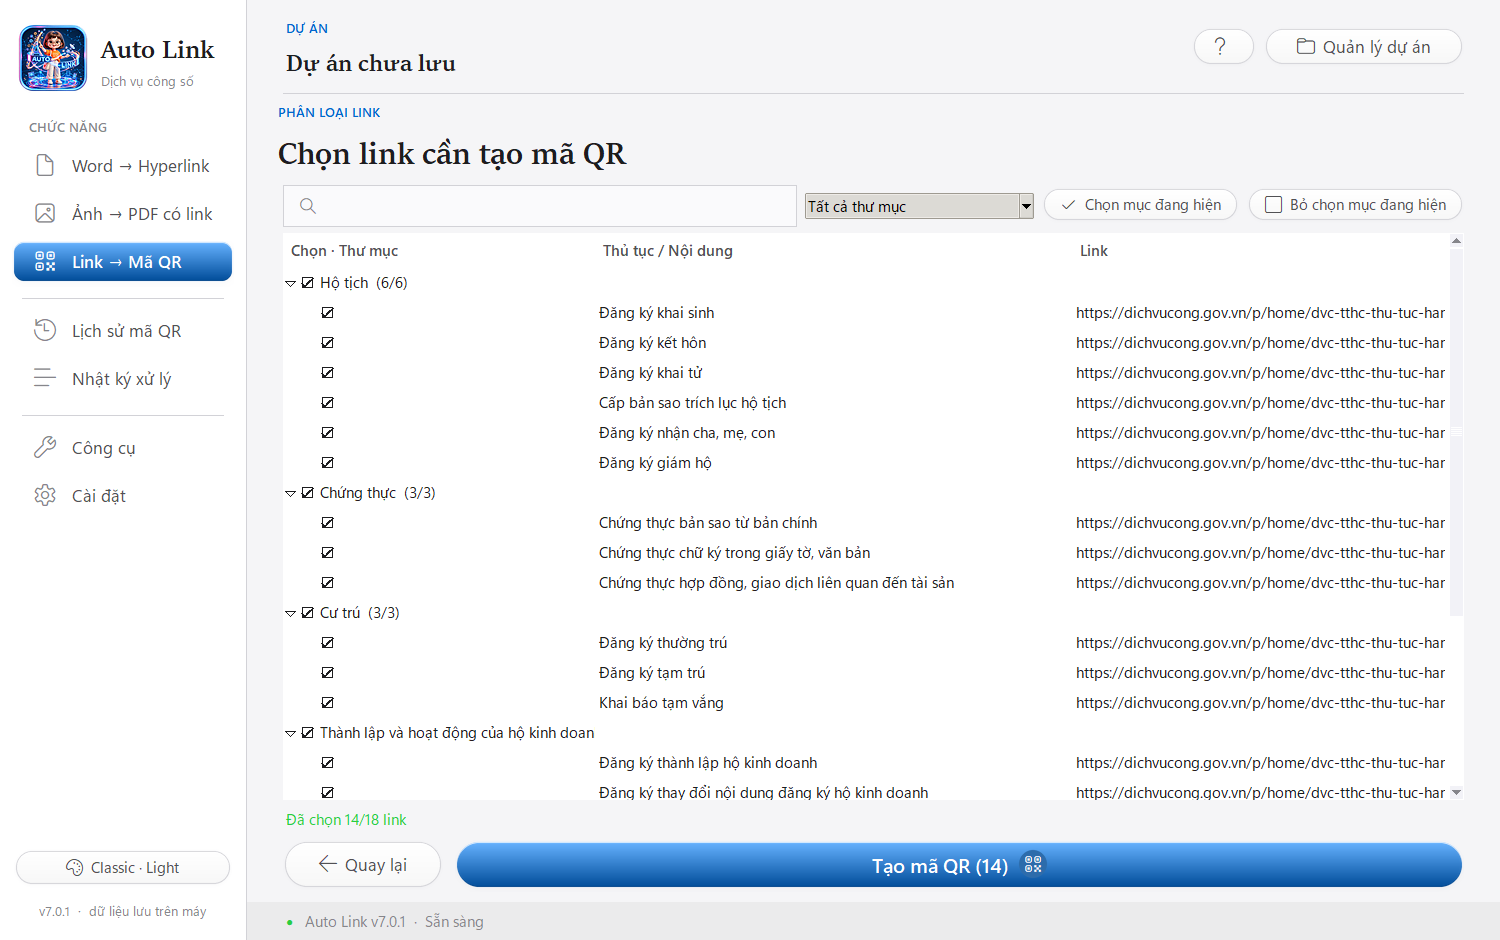
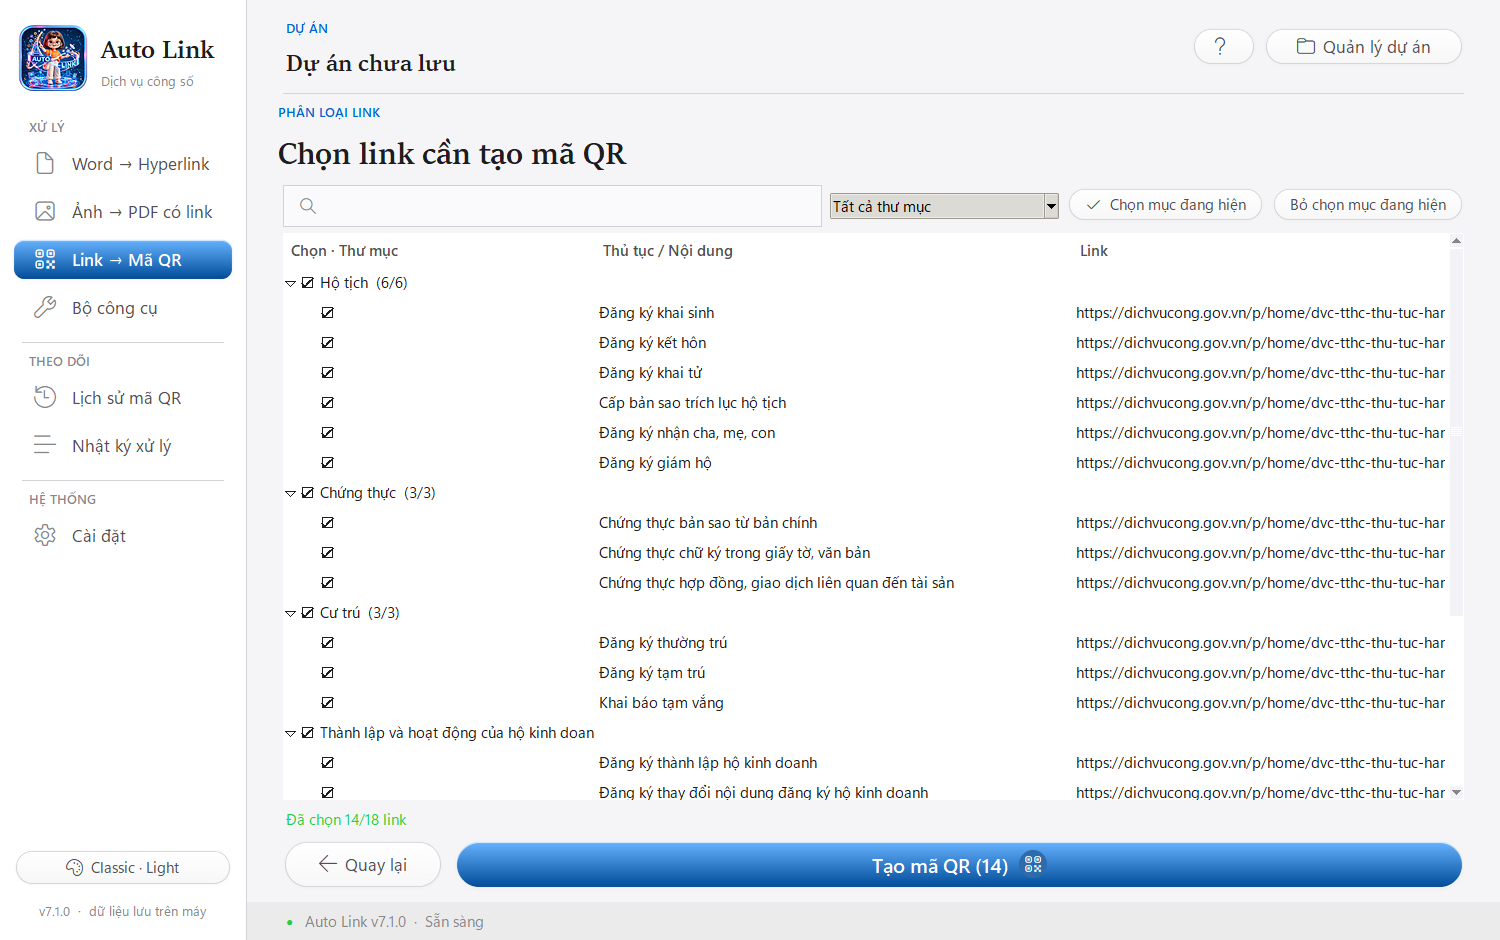
Auto Link 7.1.0 — Đảo tính năng, Bộ công cụ 5 nhóm, giao diện co giãn mọi màn hình

diff --git a/docs/readme/README.en.md b/docs/readme/README.en.md
@@ -1,6 +1,6 @@
 <h1 align="center"><img src="../banner.png" alt="Auto Link — PDF, clerical & public-service toolkit" width="100%"></h1>
 
-<p align="center"><b>A PDF, clerical &amp; public-service toolkit for Vietnamese one-stop service desks — Word → Hyperlink, Image → linked PDF, Link → QR code, Vietnamese OCR and 32 PDF / Office tools in one Windows app.</b></p>
+<p align="center"><b>A PDF, clerical &amp; public-service toolkit for Vietnamese one-stop service desks — Word → Hyperlink, Image → linked PDF, Link → QR code, Vietnamese OCR, ⇄ reverse functions and 35 PDF / Office tools in one Windows app.</b></p>
 
 <p align="center">🇻🇳 <a href="../../README.md">Tiếng Việt</a> · 🇬🇧 <b>English</b></p>
 
@@ -11,10 +11,11 @@
 </p>
 <p align="center">
   <img alt="Vietnamese OCR" src="https://img.shields.io/badge/OCR-Vietnamese-F59E0B?style=flat-square&logo=googletranslate&logoColor=white">
-  <img alt="32 tools" src="https://img.shields.io/badge/32-PDF%20%2F%20Office%20tools-EC4899?style=flat-square&logo=adobeacrobatreader&logoColor=white">
+  <img alt="35 tools" src="https://img.shields.io/badge/35-PDF%20%2F%20Office%20tools-EC4899?style=flat-square&logo=adobeacrobatreader&logoColor=white">
   <img alt="QR" src="https://img.shields.io/badge/QR-level%20H-10B981?style=flat-square&logo=qrcode&logoColor=white">
   <img alt="Offline" src="https://img.shields.io/badge/data-100%25%20local-0EA5E9?style=flat-square&logo=shield&logoColor=white">
-  <img alt="Scaling" src="https://img.shields.io/badge/display-100%E2%80%93200%25-64748B?style=flat-square&logo=windowsterminal&logoColor=white">
+  <img alt="Reverse" src="https://img.shields.io/badge/%E2%87%84-reverse%20functions-D97706?style=flat-square">
+  <img alt="Any screen" src="https://img.shields.io/badge/any%20screen-1024%C3%97768%20%E2%86%92%204K-64748B?style=flat-square&logo=windowsterminal&logoColor=white">
 </p>
 
 <p align="center"><img src="../screenshots/01-word-hyperlink.png" alt="Auto Link" width="92%"></p>
@@ -39,7 +40,7 @@ After installing, open **⚙ Settings › ✅ System check** — every item s
 | | Component | Requirement |
 |:-:|---|---|
 | 🪟 | OS | Windows 10 / 11 **64-bit** |
-| 🖥 | Display | From **1366 × 768**, any scaling **100 – 200 %** |
+| 🖥 | Display | **Any size**: 1024 × 768 to 4K, scaling **100 – 250 %**, 14-inch laptops, tablets; small / snapped windows keep every control |
 | 📎 | Microsoft Office 2013+ | Only for **Word / Excel / PowerPoint → PDF** and merging Office files |
 | 🌐 | Network | Not required — only when you click **Scrape links** or for internal updates |
 
@@ -77,8 +78,8 @@ Compared with the previous scrape: **new**, **removed**, **renamed / re-categori
 </td>
 <td valign="top">
 
-### 🧰 32 tools
-Recipe-based batch processing, mail merge, **records digitisation**, **incoming-document register**, **Decree 30/2020 formatting check**, document compare, **PDF/A**, personal-data redaction…
+### 🧰 35 tools · 5 groups
+Grouped by task with **quick search**: recipe-based batch processing, mail merge, **records digitisation**, **incoming-document register**, **Decree 30/2020 formatting check**, document compare, **PDF/A**, personal-data redaction…
 
 </td>
 <td valign="top">
@@ -112,6 +113,24 @@ Revert the last run: new files go to the **Recycle Bin**, overwritten files are 
 
 ---
 
+## ⇄ Reverse functions
+
+Every main function has a **⇄ Reverse** button next to its title that opens the opposite direction:
+
+| Main function | ⇄ Reverse | Output |
+|---|---|---|
+| 📝 Word → Hyperlink | 🔗 **Extract links** | Every link in Word / PDF (hyperlinks, plain-text URLs incl. tables, QR images) → Excel: all occurrences + unique list; optional **remove hyperlinks** keeping the text |
+| 🖼 Image → linked PDF | 🏞 **PDF → images + links** | One JPG per page (100 – 300 dpi) + an Excel list of each page's links |
+| 🔳 Link → QR code | 📷 **QR code → links** | Reads **all** QR codes in images, PDFs (incl. scans) and Word files → Excel |
+
+| 🔗 Extract links | 🏞 PDF → images + links | 📷 QR code → links |
+|---|---|---|
+| ![Extract](../screenshots/12-dao-trich-xuat-link.png) | ![PDF images](../screenshots/13-dao-pdf-anh-link.png) | ![Read QR](../screenshots/14-dao-ma-qr-link.png) |
+
+Found links can be sent straight to **Link → QR code** with one click (**“Create QR codes from these links”**).
+
+---
+
 ## 🧭 Walkthrough
 
 ```mermaid
@@ -141,10 +160,11 @@ flowchart LR
 
 | Group | Tools |
 |---|---|
-| 🏛 **Clerical & digitisation** | ⚡ Batch processing · ✉ Mail merge · 🗄 Records digitisation · 📥 Incoming documents · 📐 Formatting check (Decree 30) · 🔍 Document compare · 🏛 PDF/A export · 🕶 Personal-data redaction · 📂 Watch folder |
-| 📕 **PDF** | 🔗 Merge · ✂ Split · 🗑 Delete pages · 🔀 Reorder · 🗜 Compress · 🩹 Repair · 🔤 PDF → text (OCR) · 🔄 Rotate · 🔢 Page numbers · 💧 Watermark · 📏 Crop · 🔒 Lock · 🔓 Unlock |
-| 🔁 **Convert** | 🖼 Images → PDF · 🏞 PDF → JPG (150 – 600 dpi) · 📘 Word / 📙 PowerPoint / 📗 Excel → PDF · 📝 PDF → Word · 📊 PDF → Excel · 🧩 Merge Word / Excel / PowerPoint |
-| 🛠 **Utilities** | 🔳 QR from Excel / CSV · 🏷 Batch rename |
+| 🏛 **Clerical & public service** | ⚡ Batch processing · ✉ Mail merge · 🗄 Records digitisation · 📥 Incoming documents · 📐 Formatting check (Decree 30) · 🔍 Document compare · 📂 Watch folder · 🏷 Batch rename |
+| 🔗 **Links & QR** | 🔗 Extract links · 📷 QR code → links · 🏞 PDF → images + links · 🔳 QR from Excel / CSV |
+| 🔁 **Convert & Office** | 📘 Word / 📗 Excel / 📙 PowerPoint → PDF · 🖼 Images → PDF · 🏞 PDF → JPG (150 – 600 dpi) · 📝 PDF → Word · 📊 PDF → Excel · 🔤 PDF → text (OCR) · 🧩 Merge Word / Excel / PowerPoint |
+| 📕 **Arrange & edit PDF** | 🔗 Merge · ✂ Split · 🗑 Delete pages · 🔀 Reorder · 🔄 Rotate · 📏 Crop · 🔢 Page numbers · 💧 Watermark |
+| 🔒 **Security, optimise & archive** | 🔒 Lock · 🔓 Unlock · 🕶 Personal-data redaction · 🗜 Compress · 🩹 Repair · 🏛 PDF/A export |
 
 ---
 
@@ -158,7 +178,7 @@ Settings live in `%APPDATA%\AutoLink\`, QR codes and `LichSu_MaQR.csv` in `Docum
 ## 📜 Changelog · ⚖ License
 
 > [!TIP]
-> **Latest — 7.0.1:** full layout on 14-inch laptops (Full HD at 150 %, 1366 × 768, 2K at 200 %).
+> **Latest — 7.1.0:** ⇄ reverse functions for all 3 main features, grouped menu + tools with quick search, full layout on **any screen** (1024 × 768 → 4K, tablets, small windows).
 
 See **[📜 CHANGELOG.md](../../CHANGELOG.md)** (Vietnamese) and **[🏷 Releases](https://github.com/mikeTran99/Auto-Link/releases)**.
 

diff --git a/CHANGELOG.md b/CHANGELOG.md
@@ -1,5 +1,33 @@
 # Nhật ký thay đổi — Auto Link
 
+## 7.1.0 — 01/10/2026
+**Mới — "Đảo tính năng"**: nút ⇄ bên phải tiêu đề mỗi chức năng chính mở chức năng chiều ngược
+- Word → Hyperlink ⇄ **Trích xuất link**: mọi link trong Word / PDF (hyperlink, cả trường HYPERLINK Word tự tạo khi
+  dán link; link dạng chữ, cả trong bảng; mã QR trong ảnh) → Excel 2 sheet: "Tất cả link" (file, vị trí, chữ hiển thị,
+  nguồn) và "Link duy nhất" (gộp trùng, đếm số lần). Tuỳ chọn gỡ hyperlink: lưu bản Word `_khong_link`, giữ nguyên chữ.
+- Ảnh → PDF có link ⇄ **PDF → Ảnh + link**: mỗi trang PDF 1 ảnh JPG (100–300 dpi, mỗi PDF 1 thư mục) + Excel link
+  của từng trang (link bấm được và link dạng chữ).
+- Link → Mã QR ⇄ **Mã QR → Link**: đọc mọi mã QR (cả nhiều mã / trang) trong ảnh, PDF (cả bản scan), Word → Excel
+  (link / văn bản, kể cả nội dung tiếng Việt).
+- Trích / đọc được link → nút **"Tạo mã QR từ các link này"** đưa thẳng sang Link → Mã QR (giữ nhãn, bỏ link trùng).
+
+**Sắp xếp chức năng khoa học hơn**
+- Menu trái theo nhóm: XỬ LÝ (Word → Hyperlink, Ảnh → PDF có link, Link → Mã QR, Bộ công cụ) · THEO DÕI (Lịch sử mã
+  QR, Nhật ký xử lý) · HỆ THỐNG (Cài đặt).
+- Bộ công cụ (35) xếp 5 nhóm việc: Văn thư & Dịch vụ công · Link & Mã QR · Chuyển đổi & Office · Sắp xếp & chỉnh sửa
+  PDF · Bảo mật, tối ưu & lưu trữ; ô **tìm nhanh** (gõ không dấu vẫn ra, dán cũng lọc ngay).
+
+**Hiển thị đầy đủ trên mọi màn hình / thiết bị** (màn cũ 1024×768, laptop HD 100–125 %, Full HD 150–175 %, máy tính
+bảng 1280×800, 2K, 4K; cửa sổ thu nhỏ, Snap nửa màn hình)
+- Cửa sổ hẹp: menu trái thu thành cột icon (rê chuột / Tab hiện tên); cửa sổ thấp: ẩn tiêu đề nhóm, chân menu.
+- Hàng nút tự xuống dòng (Nhật ký, Lịch sử, trang Link, bảng chọn link, chân trang) thay vì bị ép, cắt chữ; dòng tuỳ
+  chọn (Cài đặt, Bước 2) đưa nút / lựa chọn xuống dưới chữ khi hẹp; đường dẫn, mô tả dài tự xuống dòng.
+- Mọi trang cuộn được khi màn thấp, bảng / ô nhật ký không bị ép dẹt; nút chính luôn ghim đáy trang.
+- Hộp thoại không cao / rộng quá màn hình (phần thân cuộn được), không lọt xuống dưới thanh tác vụ.
+- Cửa sổ nhỏ nhất 760 × 520 px logic (trước: bằng cỡ mặc định).
+- Test tự động giả lập 8 loại màn hình × 4 cỡ cửa sổ (phóng to, mặc định, nửa màn hình, nhỏ nhất); tự kiểm tra EXE thêm
+  mục "Đảo tính năng".
+
 ## 7.0.1 — 30/09/2026
 **Sửa lỗi hiển thị thiếu thành phần trên laptop 14 inch** (Full HD phóng chữ 150 %, HD 1366×768, màn 2K 200 %)
 - Menu trái rộng cố định 232 px → máy phóng chữ 150 % bị cắt "Auto Lin", "Dịch vụ công s", "Word → Hyperlin". Nay
